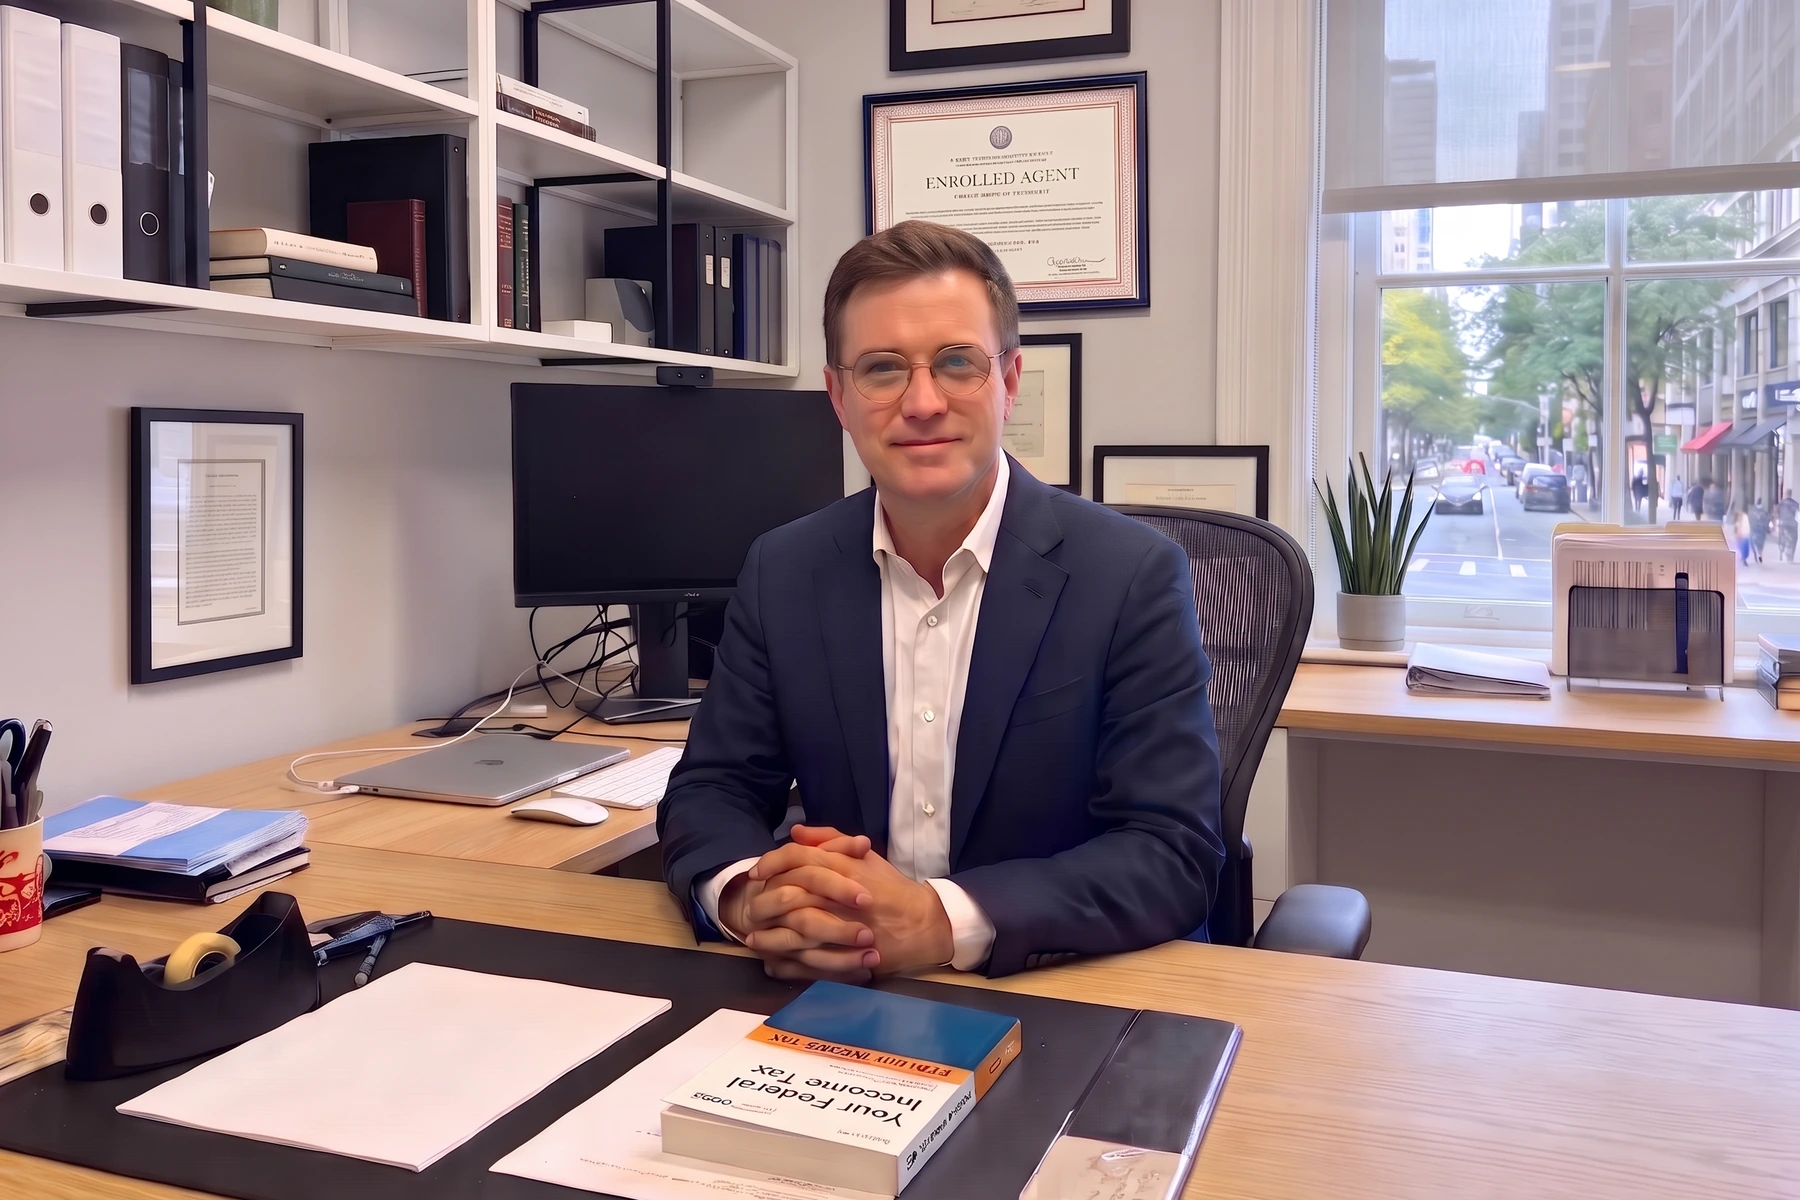
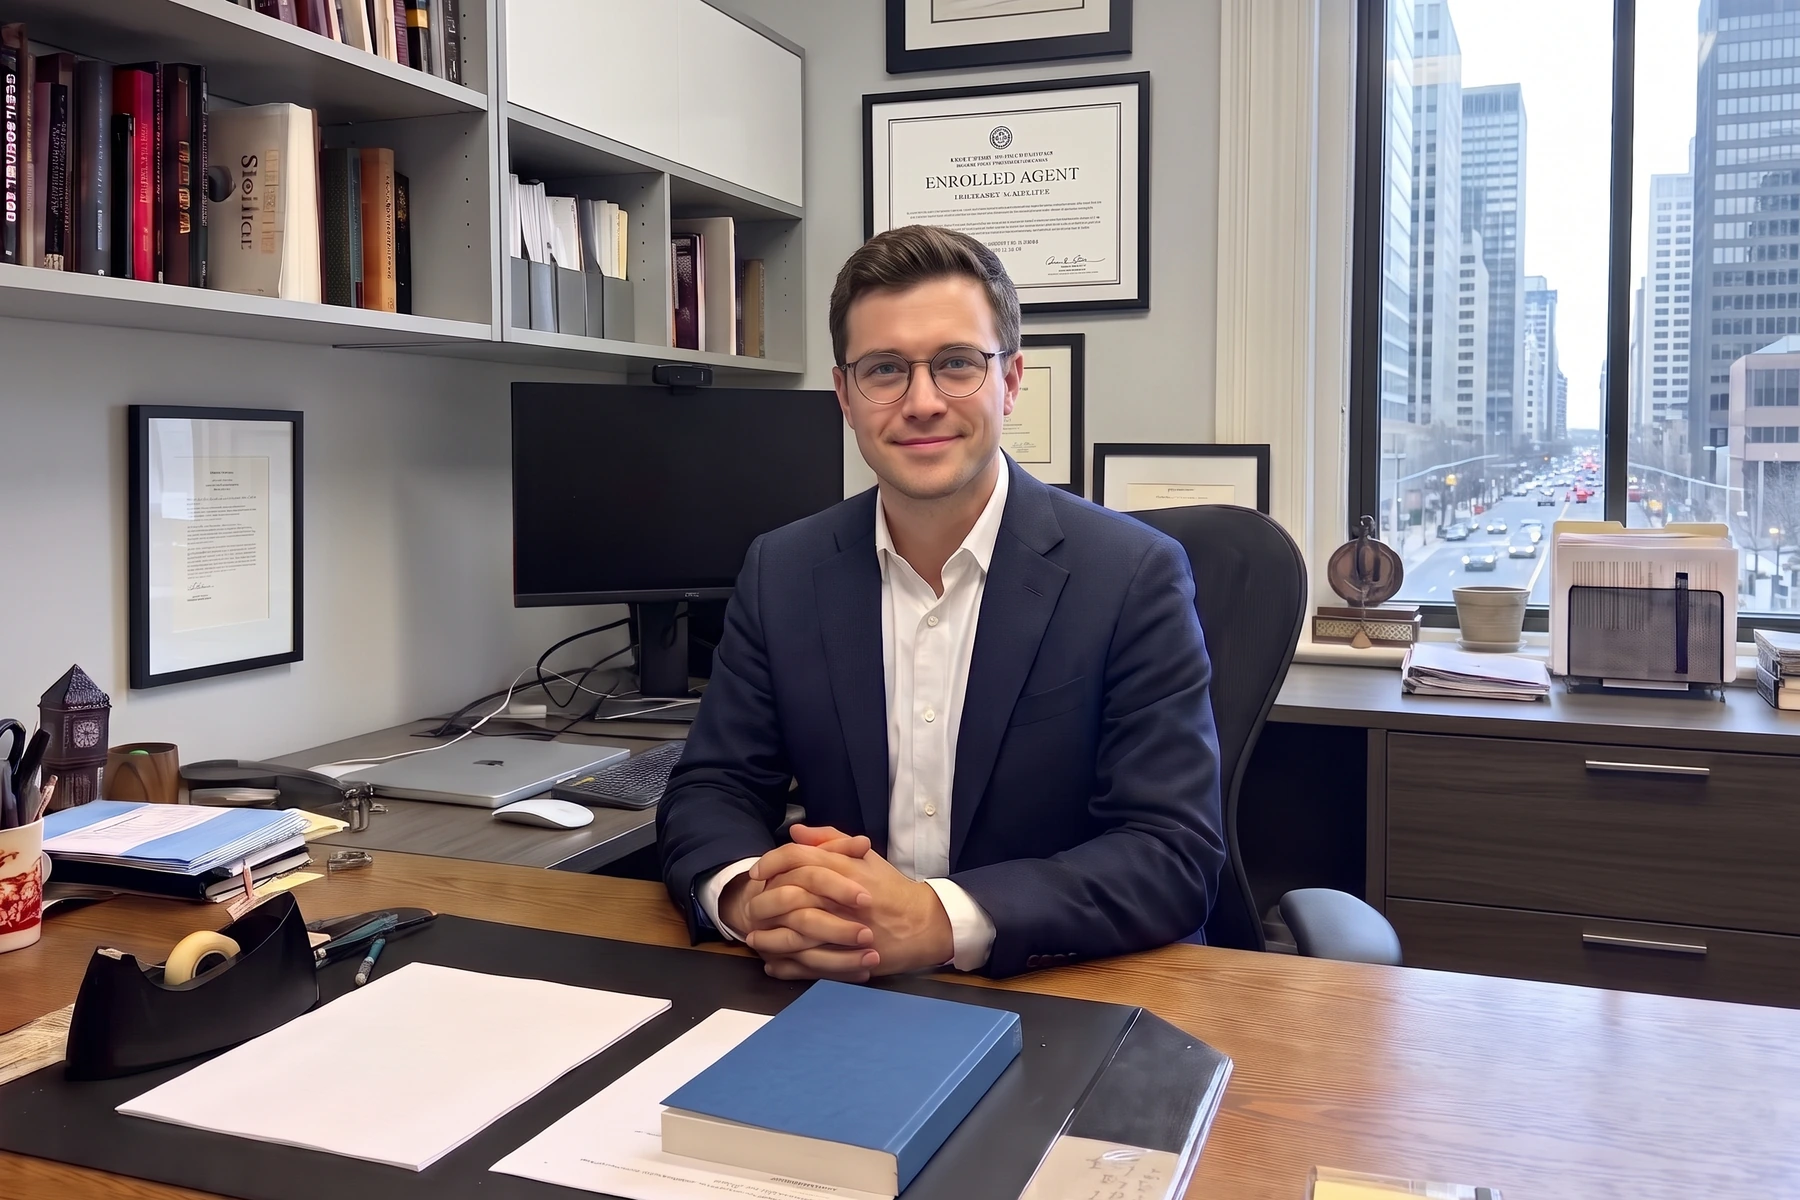
Hub: replace EA photo with New EA Modern

diff --git a/index.html b/index.html
@@ -221,7 +221,7 @@
   <h2 class="choose-h" data-ko="어떤 자격증을 준비 중이신가요?" data-en="Which license are you working toward?">Which license are you working toward?</h2>
   <div class="doors">
     <div class="door ea">
-      <a class="photo" href="/ea/" aria-label="Enrolled Agent (EA)"><img src="/img/door-ea.webp?v=44fad9be1a" width="1000" height="667" alt="Tax professional working at a desk" fetchpriority="high"></a>
+      <a class="photo" href="/ea/" aria-label="Enrolled Agent (EA)"><img src="/img/door-ea.webp?v=8327f700a8" width="1000" height="667" alt="Tax professional working at a desk" fetchpriority="high"></a>
       <div class="body">
         <h2 data-ko="미국 세무사 (EA)" data-en="Enrolled Agent (EA)">Enrolled Agent (EA)</h2>
         <p data-ko="IRS SEE 출제 비중을 철저히 분석한 5,000+ 실전 문제로 합격을 준비하세요." data-en="Prepare to pass with 5,000+ practice questions built on a close analysis of the IRS SEE weighting.">Prepare to pass with 5,000+ practice questions built on a close analysis of the IRS SEE weighting.</p>
